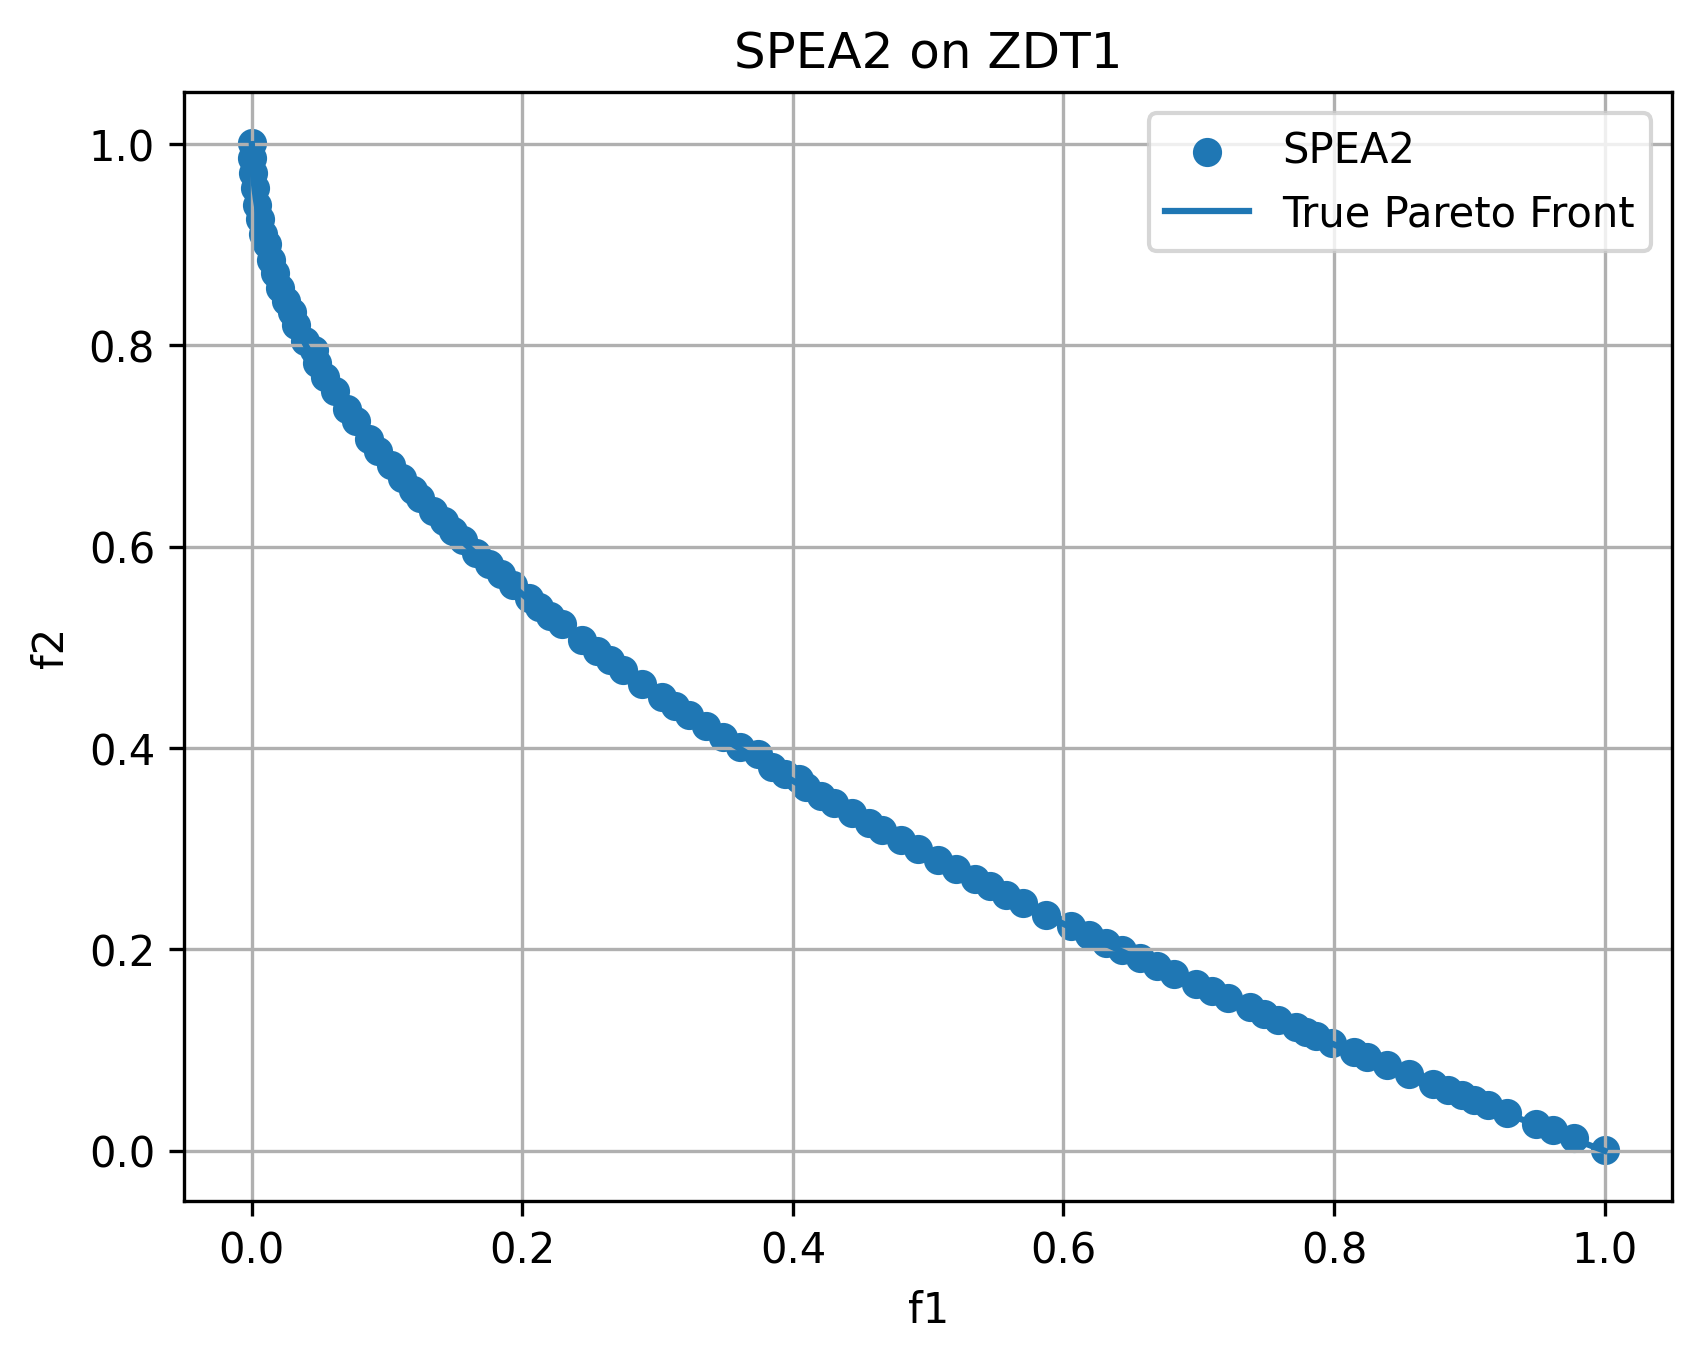
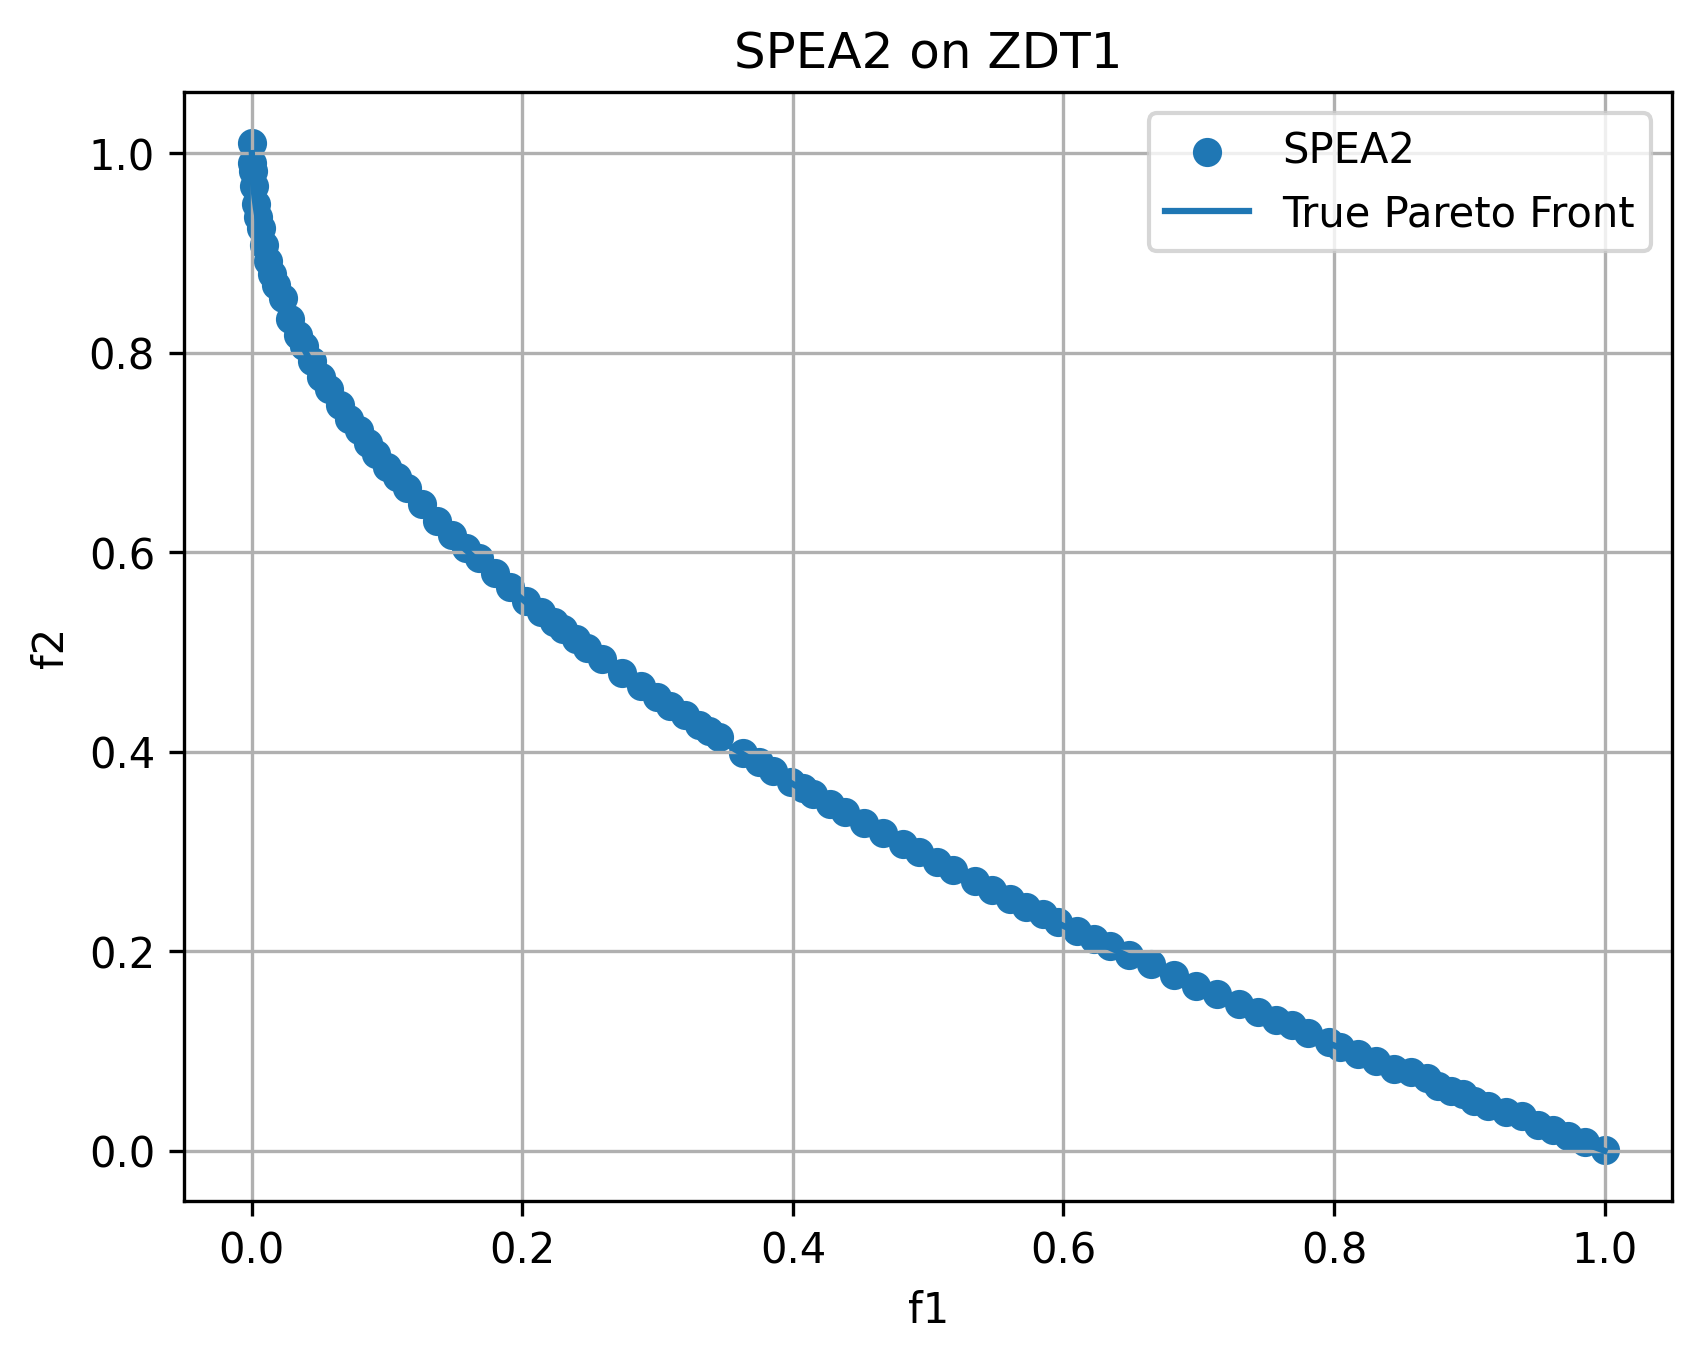
Add multi-objective evaluation metrics

diff --git a/experiments/zdt1_experiment.py b/experiments/zdt1_experiment.py
@@ -1,7 +1,13 @@
 import math
 import sys
 import os
+
 import matplotlib.pyplot as plt
+
+from src.metrics.igd import calculate_igd
+from src.metrics.gd import calculate_gd
+from src.metrics.hypervolume import calculate_hypervolume
+from src.metrics.spacing import calculate_spacing
 
 sys.path.append(
     os.path.abspath(
@@ -12,17 +18,19 @@ sys.path.append(
     )
 )
 
-from spea2 import spea2,zdt1
+from spea2 import spea2, zdt1
 
-population_size=100
-num_variables=30
-archive_size=100
-generations=250
+population_size = 100
+num_variables = 30
+archive_size = 100
+generations = 250
 
-lower_bound=0.0
-upper_bound=1.0
+lower_bound = 0.0
+upper_bound = 1.0
 
-population,archive=spea2(
+
+
+population, archive = spea2(
     population_size,
     num_variables,
     archive_size,
@@ -31,29 +39,84 @@ population,archive=spea2(
     upper_bound
 )
 
-objectives=[
+objectives = [
     zdt1(solution)
     for solution in archive
 ]
 
-obtained_f1=[
+reference_front = [
+    [
+        i / 1000,
+        1 - math.sqrt(i / 1000)
+    ]
+    for i in range(1001)
+]
+
+igd = calculate_igd(
+    objectives,
+    reference_front
+)
+
+gd = calculate_gd(
+    objectives,
+    reference_front
+)
+
+hv = calculate_hypervolume(
+    objectives,
+    [1.1, 1.1]
+)
+
+spacing = calculate_spacing(
+    objectives
+)
+
+print(f"IGD: {igd}")
+print(f"GD: {gd}")
+print(f"Hypervolume: {hv}")
+print(f"Spacing: {spacing}")
+
+metrics_dir = os.path.abspath(
+    os.path.join(
+        os.path.dirname(__file__),
+        "../results/metrics"
+    )
+)
+
+os.makedirs(
+    metrics_dir,
+    exist_ok=True
+)
+
+metrics_file = os.path.join(
+    metrics_dir,
+    "zdt1_metrics.txt"
+)
+
+with open(metrics_file, "w") as file:
+    file.write(f"IGD: {igd}\n")
+    file.write(f"GD: {gd}\n")
+    file.write(f"Hypervolume: {hv}\n")
+    file.write(f"Spacing: {spacing}\n")
+    
+obtained_f1 = [
     objective[0]
     for objective in objectives
 ]
 
-obtained_f2=[
+obtained_f2 = [
     objective[1]
     for objective in objectives
 ]
 
-true_f1=[
-    i/1000
-    for i in range(1001)
+true_f1 = [
+    point[0]
+    for point in reference_front
 ]
 
-true_f2=[
-    1-math.sqrt(f1)
-    for f1 in true_f1
+true_f2 = [
+    point[1]
+    for point in reference_front
 ]
 
 plt.scatter(
@@ -74,7 +137,7 @@ plt.title("SPEA2 on ZDT1")
 plt.legend()
 plt.grid()
 
-results_dir=os.path.abspath(
+results_dir = os.path.abspath(
     os.path.join(
         os.path.dirname(__file__),
         "../results/figures"

diff --git a/tests/test_metrics.py b/tests/test_metrics.py
@@ -1,0 +1,64 @@
+import math
+
+from src.metrics.igd import calculate_igd
+from src.metrics.gd import calculate_gd
+from src.metrics.hypervolume import calculate_hypervolume
+from src.metrics.spacing import calculate_spacing
+
+def test_igd_identical_fronts():
+    front = [
+        [0.0, 1.0],
+        [0.5, 0.5],
+        [1.0, 0.0]
+    ]
+    assert calculate_igd(front, front) == 0.0
+
+def test_gd_identical_fronts():
+    front = [
+        [0.0, 1.0],
+        [0.5, 0.5],
+        [1.0, 0.0]
+    ]
+    assert calculate_gd(front, front) == 0.0
+
+def test_igd_nonzero():
+    obtained = [
+        [0.0, 1.0]
+    ]
+    reference = [
+        [0.0, 1.0],
+        [1.0, 0.0]
+    ]
+    result = calculate_igd(obtained, reference)
+    assert math.isclose(result, math.sqrt(2) / 2)
+
+def test_gd_nonzero():
+    obtained = [
+        [0.0, 1.0],
+        [1.0, 0.0]
+    ]
+    reference = [
+        [0.0, 1.0]
+    ]
+    result = calculate_gd(obtained, reference)
+    assert math.isclose(result, 1.0)
+
+def test_hypervolume():
+    front = [
+        [0.5, 0.5]
+    ]
+    reference_point = [1.0, 1.0]
+    result = calculate_hypervolume(
+        front,
+        reference_point
+    )
+    assert math.isclose(result, 0.25)
+
+def test_spacing():
+    front = [
+        [0.0, 1.0],
+        [0.5, 0.5],
+        [1.0, 0.0]
+    ]
+    result = calculate_spacing(front)
+    assert math.isclose(result, 0.0)

diff --git a/src/metrics/spacing.py b/src/metrics/spacing.py
@@ -1,0 +1,37 @@
+import math
+
+def euclidean_distance(point_a, point_b):
+    if len(point_a) != len(point_b):
+        raise ValueError("Points must have the same number of objectives")
+    distance = 0.0
+    for a, b in zip(point_a, point_b):
+        distance += (a - b) ** 2
+    return math.sqrt(distance)
+
+def calculate_spacing(front):
+    if len(front) < 2:
+        return 0.0
+    distances = []
+    for i in range(len(front)):
+        minimum_distance = float("inf")
+        for j in range(len(front)):
+            if i == j:
+                continue
+            distance = euclidean_distance(
+                front[i],
+                front[j]
+            )
+            minimum_distance = min(
+                minimum_distance,
+                distance
+            )
+        distances.append(minimum_distance)
+    mean_distance = sum(distances) / len(distances)
+    squared_difference = 0.0
+    for distance in distances:
+        squared_difference += (
+            distance - mean_distance
+        ) ** 2
+    return math.sqrt(
+        squared_difference / len(distances)
+    )

diff --git a/src/metrics/gd.py b/src/metrics/gd.py
@@ -1,0 +1,31 @@
+import math
+
+def euclidean_distance(point_a, point_b):
+    if len(point_a) != len(point_b):
+        raise ValueError("Points must have the same number of objectives")
+    distance = 0.0
+    for a, b in zip(point_a, point_b):
+        distance += (a - b) ** 2
+    return math.sqrt(distance)
+
+def calculate_gd(obtained_front, reference_front):
+    if not obtained_front:
+        return float("inf")
+    if not reference_front:
+        raise ValueError("Reference front cannot be empty")
+    total_squared_distance = 0.0
+    for obtained_point in obtained_front:
+        minimum_distance = float("inf")
+        for reference_point in reference_front:
+            distance = euclidean_distance(
+                obtained_point,
+                reference_point
+            )
+            minimum_distance = min(
+                minimum_distance,
+                distance
+            )
+        total_squared_distance += minimum_distance ** 2
+    return math.sqrt(
+        total_squared_distance / len(obtained_front)
+    )

diff --git a/src/metrics/igd.py b/src/metrics/igd.py
@@ -1,0 +1,31 @@
+import math
+
+def euclidean_distance(point_a, point_b):
+    if len(point_a) != len(point_b):
+        raise ValueError("Points must have the same number of objectives")
+    distance = 0.0
+    for a, b in zip(point_a, point_b):
+        distance += (a - b) ** 2
+
+    return math.sqrt(distance)
+
+
+def calculate_igd(obtained_front, reference_front):
+    if not reference_front:
+        raise ValueError("Reference front cannot be empty")
+    if not obtained_front:
+        return float("inf")
+    total_distance = 0.0
+    for reference_point in reference_front:
+        minimum_distance = float("inf")
+        for obtained_point in obtained_front:
+            distance = euclidean_distance(
+                reference_point,
+                obtained_point
+            )
+            minimum_distance = min(
+                minimum_distance,
+                distance
+            )
+        total_distance += minimum_distance
+    return total_distance / len(reference_front)

diff --git a/src/metrics/hypervolume.py b/src/metrics/hypervolume.py
@@ -1,0 +1,19 @@
+def calculate_hypervolume(front, reference_point):
+    if not front:
+        return 0.0
+    if len(reference_point) != 2:
+        raise ValueError(
+            "This implementation supports exactly 2 objectives"
+        )
+    sorted_front = sorted(front, key=lambda point: point[0])
+    hypervolume = 0.0
+    previous_x = reference_point[0]
+    for point in reversed(sorted_front):
+        x = point[0]
+        y = point[1]
+        width = previous_x - x
+        height = reference_point[1] - y
+        if width > 0 and height > 0:
+            hypervolume += width * height
+        previous_x = x
+    return hypervolume

diff --git a/src/metrics/__init__.py b/src/metrics/__init__.py
@@ -1,0 +1,4 @@
+from .igd import calculate_igd
+from .gd import calculate_gd
+from .hypervolume import calculate_hypervolume
+from .spacing import calculate_spacing
